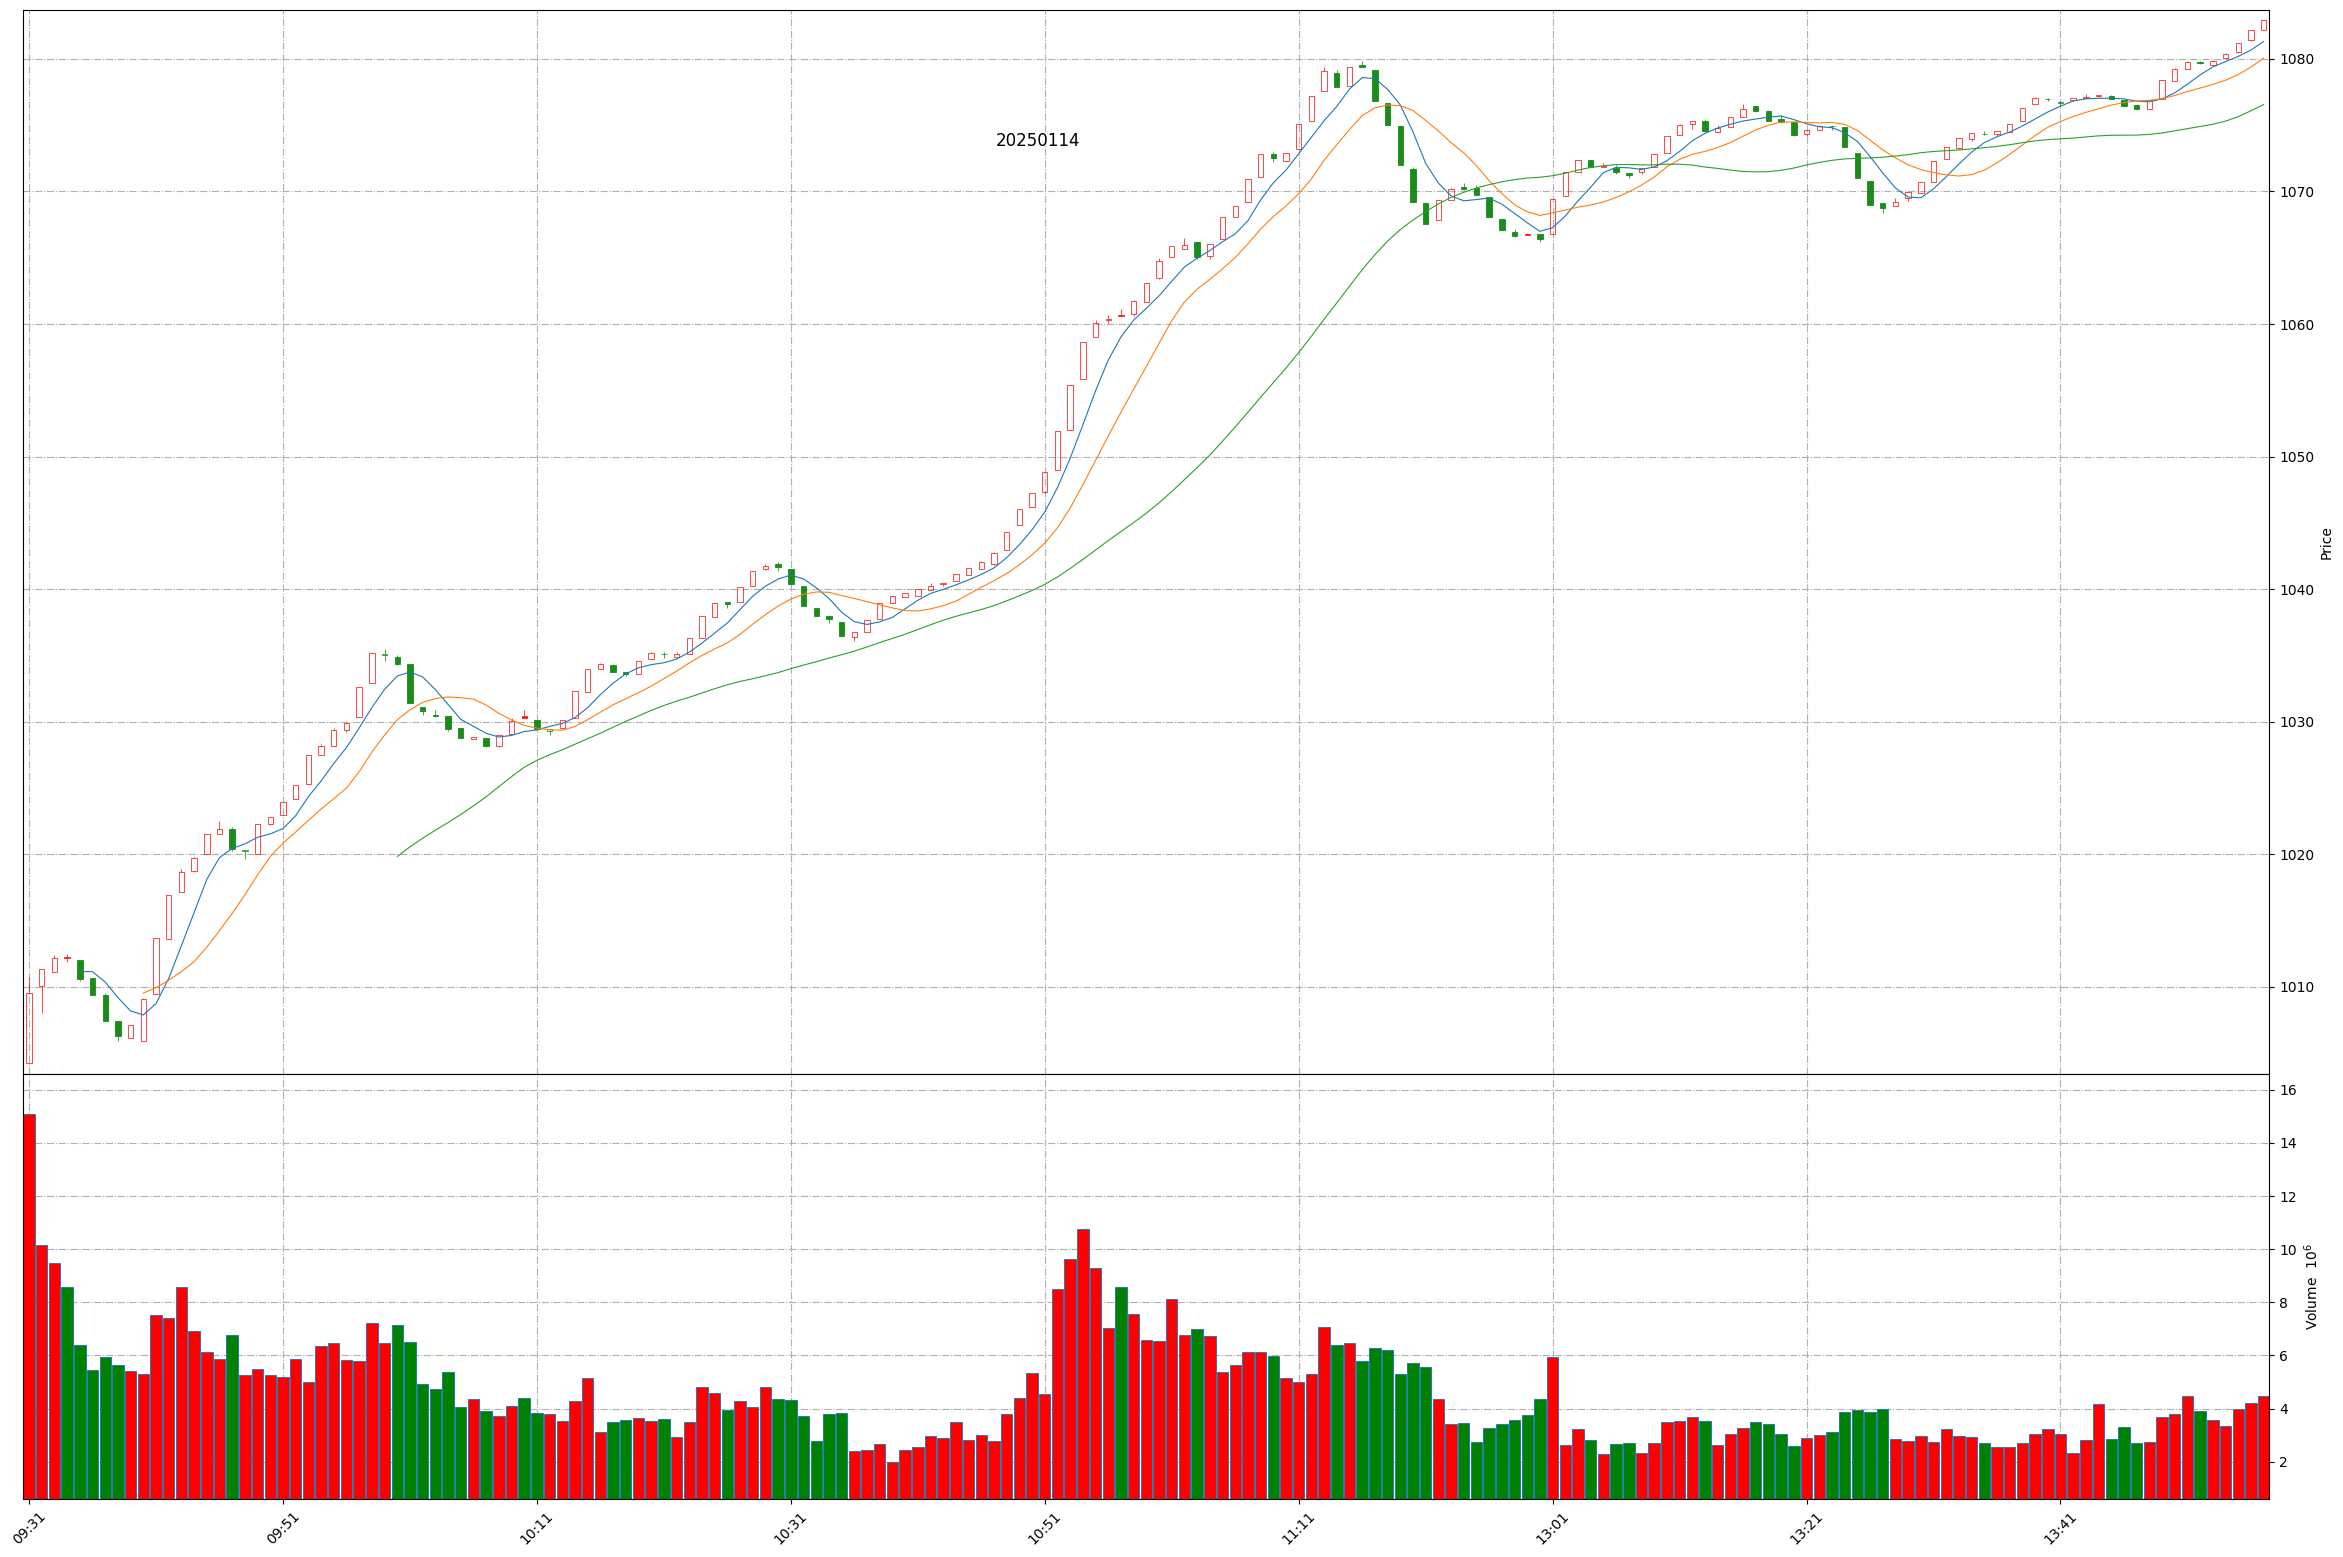
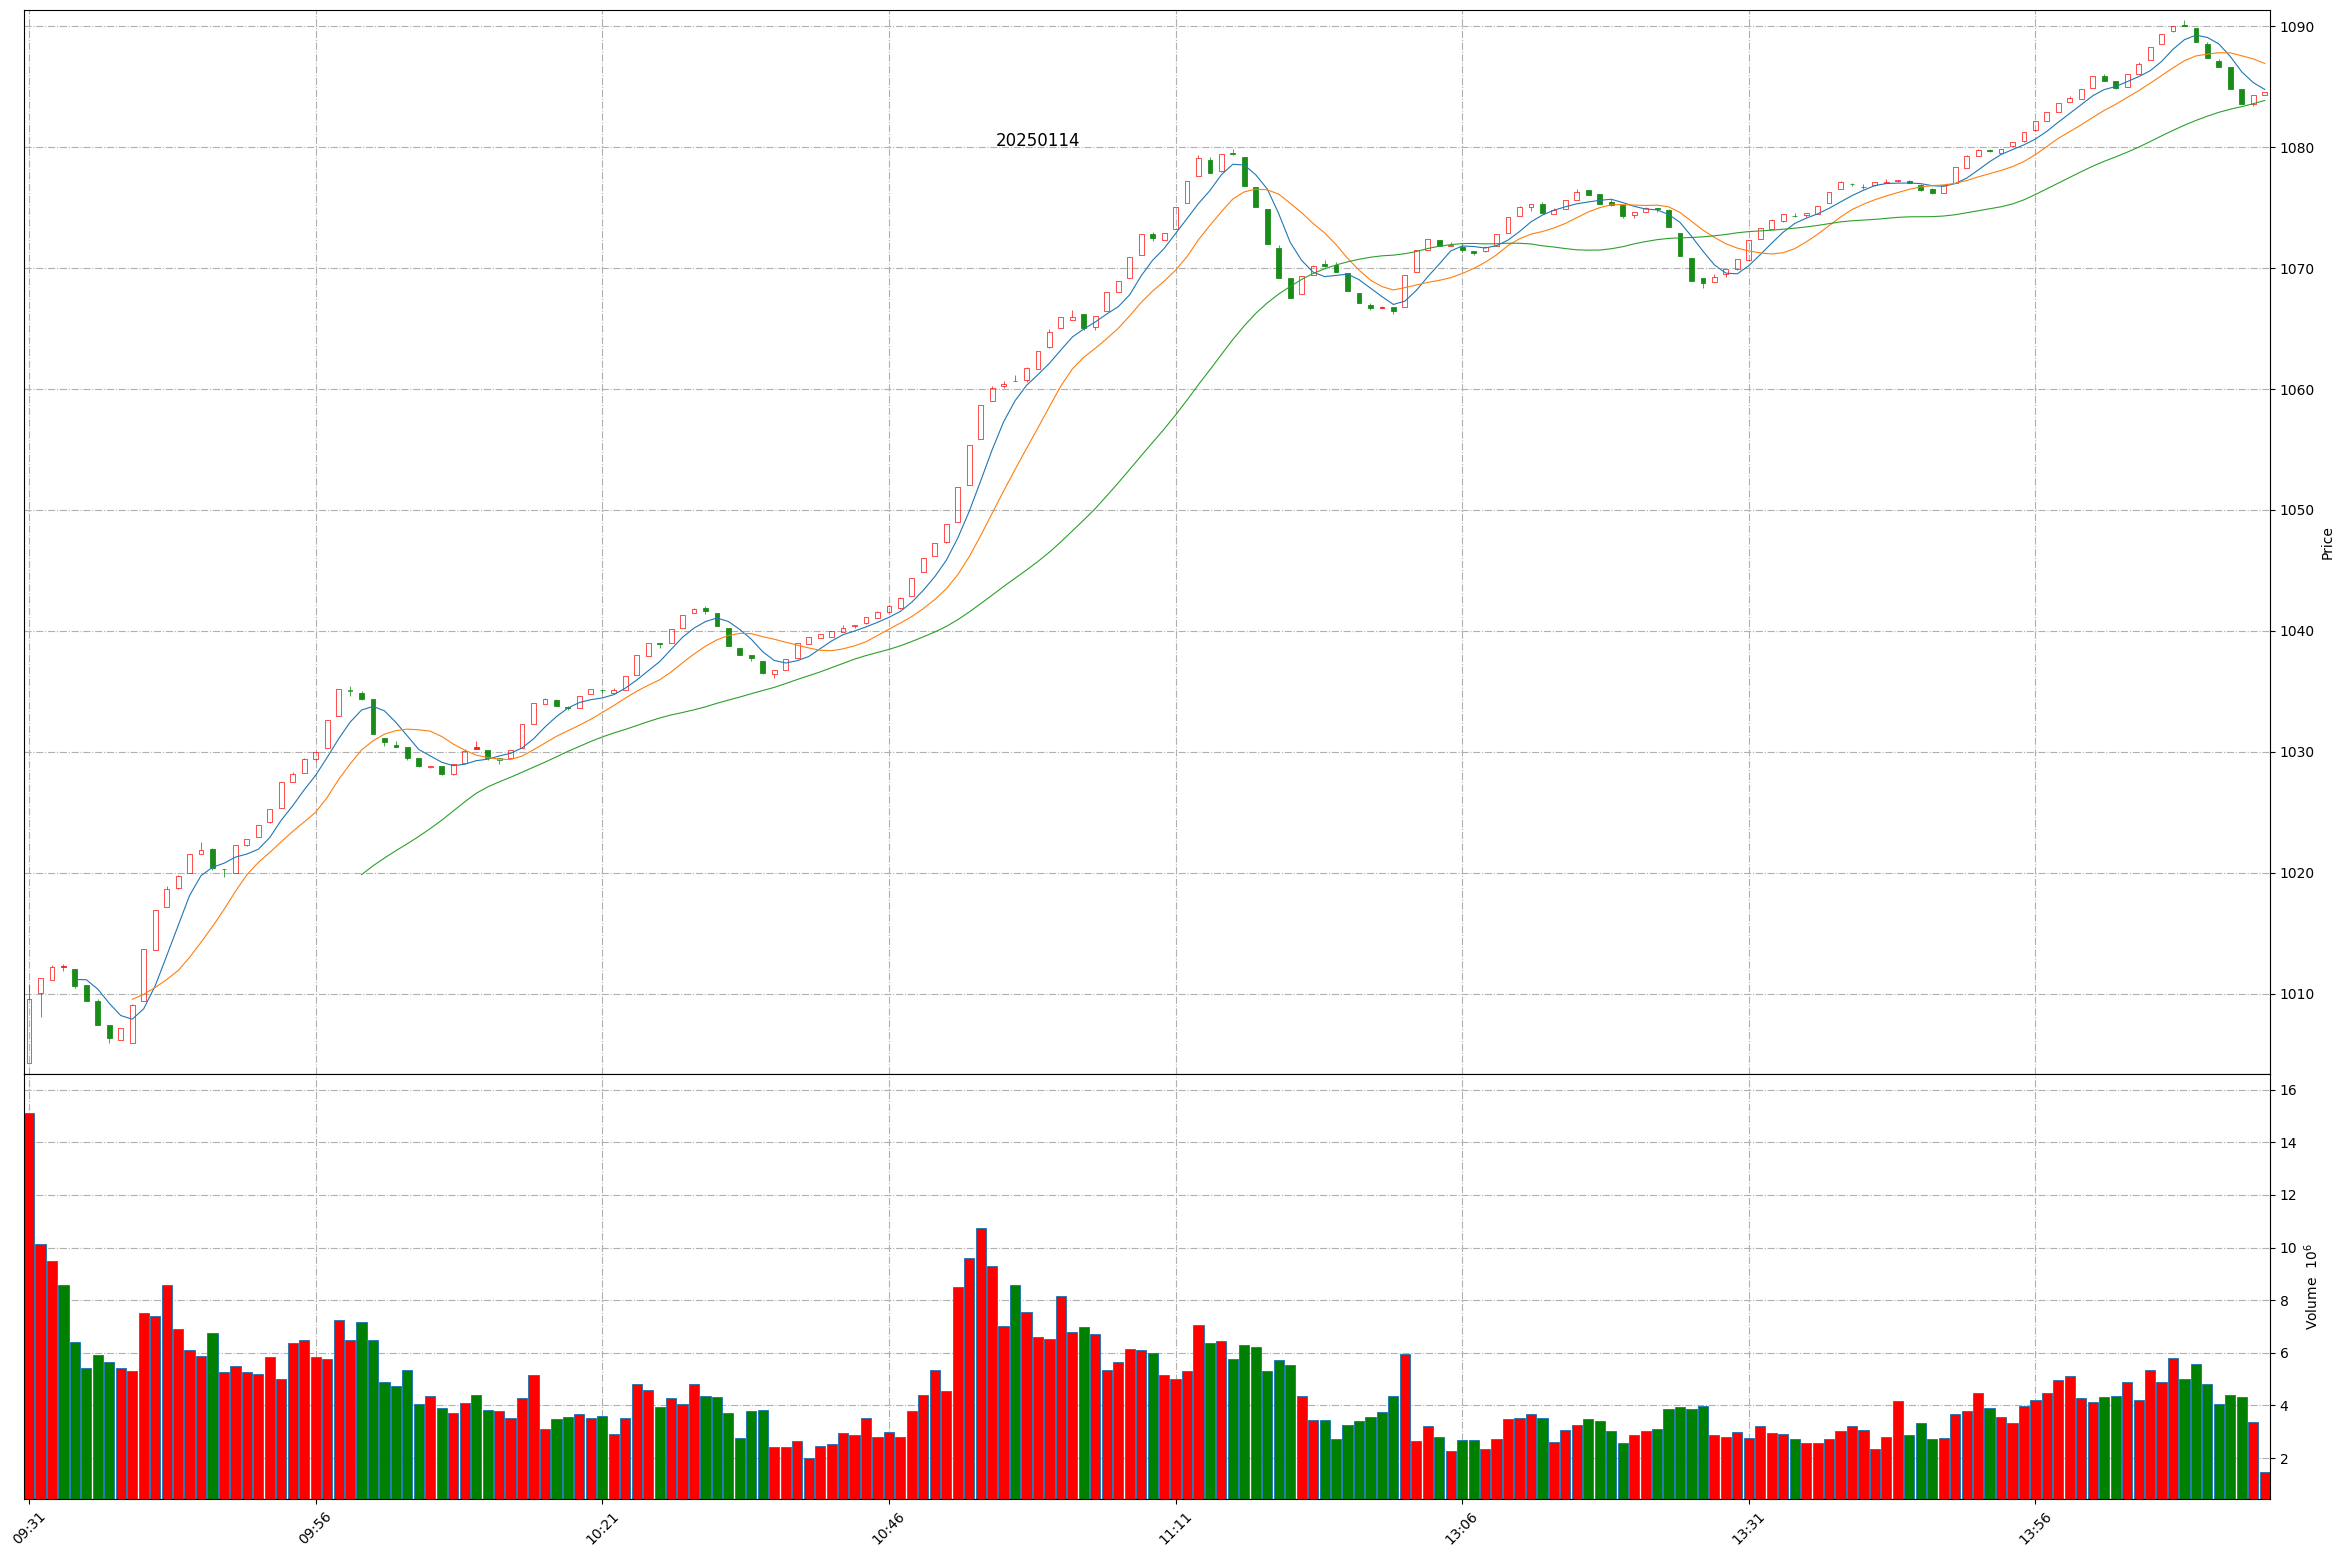
Github action update at 2025-01-14 14:15:34.

diff --git a/README.md b/README.md
@@ -1,11 +1,11 @@
 
 # Daily-A-share-market-quotes 每日 A 股指数（5min 更新）- 20250114
 
-### 上证指数 20250114 13:57
+### 上证指数 20250114 14:15
 ![](./fig/2025/1/20250114-sh000001.png)
 
-### 深证成指 20250114 13:57
+### 深证成指 20250114 14:15
 ![](./fig/2025/1/20250114-sz399001.png)
 
-### 北证50 20250114 13:57
+### 北证50 20250114 14:15
 ![](./fig/2025/1/20250114-bj899050.png)
